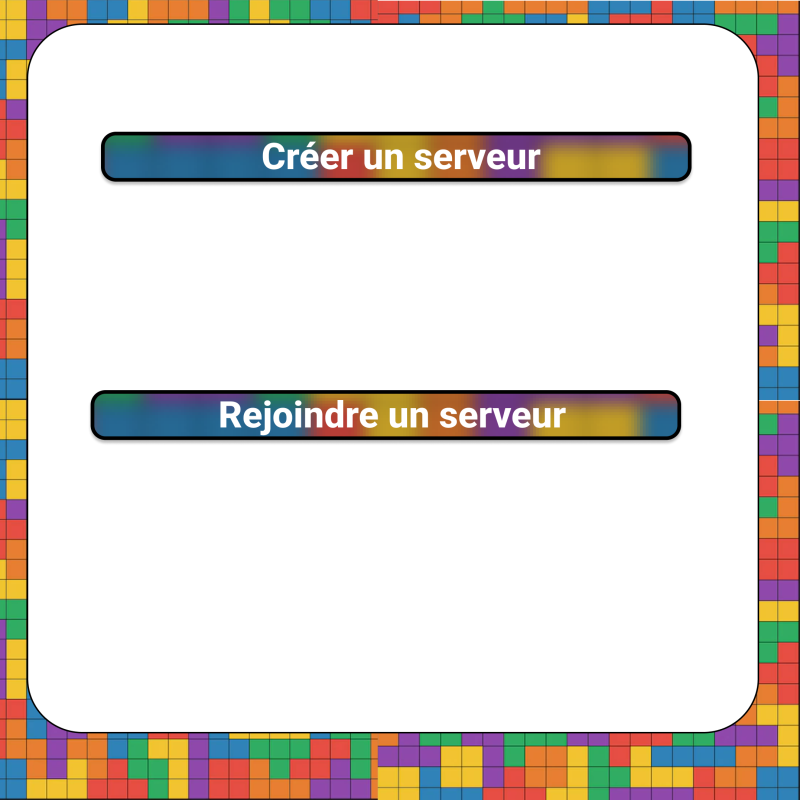
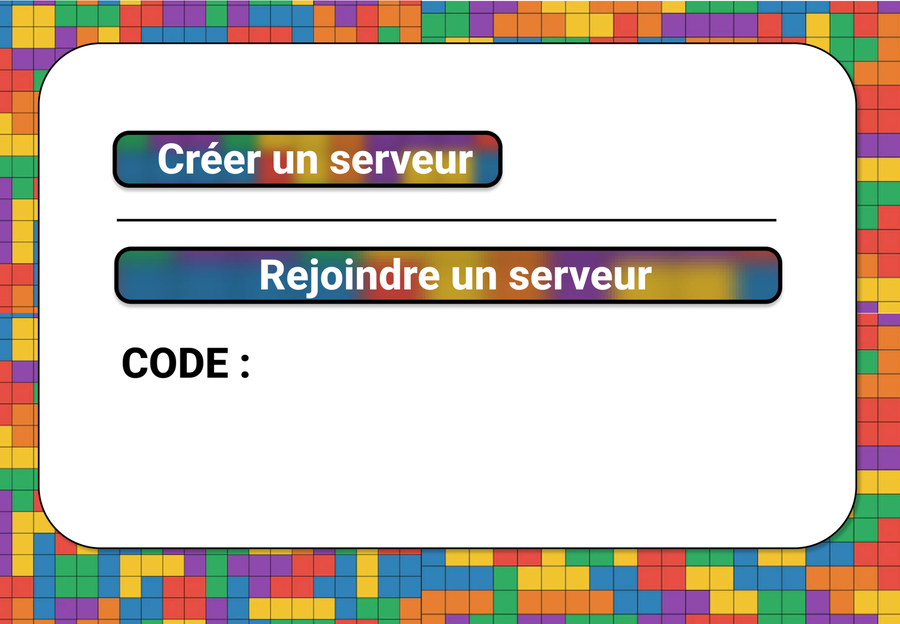
style(MultiplayerView): change design

diff --git a/src/views/MultiplayerView.py b/src/views/MultiplayerView.py
@@ -12,7 +12,7 @@ from socket import gethostname, gethostbyname
 class MultiplayerView(View):
 
 
-    def __init__(self, controller, window: CTk, longueur=800, hauteur=800):
+    def __init__(self, controller, window: CTk, longueur=900, hauteur=624):
         super().__init__()
 
         self.window = window
@@ -28,25 +28,25 @@ class MultiplayerView(View):
 
 
     def _makeFrame(self):
-        self.mainFrame = _createFrame(self.window, 800, 800)
+        self.mainFrame = _createFrame(self.window, 900, 624)
 
-    def main(self,largeur = 800,hauteur = 800):
+    def main(self,largeur = 900,hauteur = 624):
         _resizeWindow(self.window,largeur,hauteur)
         self._makeFrame()
         self._makeBackground()
-        self.backHome: Bouton = Bouton(self.window, self, 300, 700, width=206, heigth=49, file=APP_PATH + "/../media/assets/buttun_rules_return.png", son="button", command=self.multiplayerController.goBackMenu)    
+        self.backHome: Bouton = Bouton(self.window, self, 350, 520, width=206, heigth=49, file=APP_PATH + "/../media/assets/buttun_rules_return.png", son="button", command=self.multiplayerController.goBackMenu)    
 
-        self.entryClient = Entry(self.window,width=15)
+        self.entryClient = Entry(self.window,width=15, fg="grey", bg="grey", relief="sunken", foreground="white")
         self.entryClient.configure(font=('Roboto Bold', 20))
-        self.entryClient.place(x=150,y=505)
+        self.entryClient.place(x=265,y=345)
 
         self.createServer : Bouton = Bouton(
-            self.window, self, 290, 230, width=206, heigth=49, 
+            self.window, self, 520, 136, width=206, heigth=49, 
             file=APP_PATH + r"/../media/assets/createMulti_button.png", son="button", 
             command= lambda : self.multiplayerController._createServer('0.0.0.0'))    
         
         self.joinServer : Bouton = Bouton(
-            self.window, self, 420, 500, width=206, heigth=49, 
+            self.window, self, 520, 335, width=206, heigth=49, 
             file=APP_PATH + r"/../media/assets/joinMulti_button.png", son="button", 
             command=lambda : self.multiplayerController._joinServer(self.entryClient.get()))    
 
